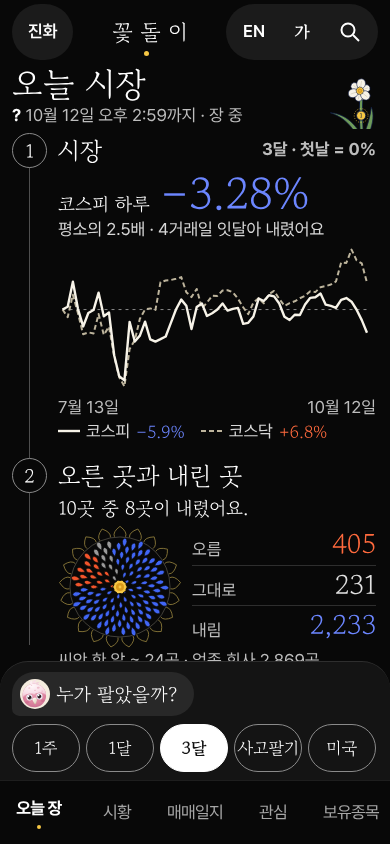
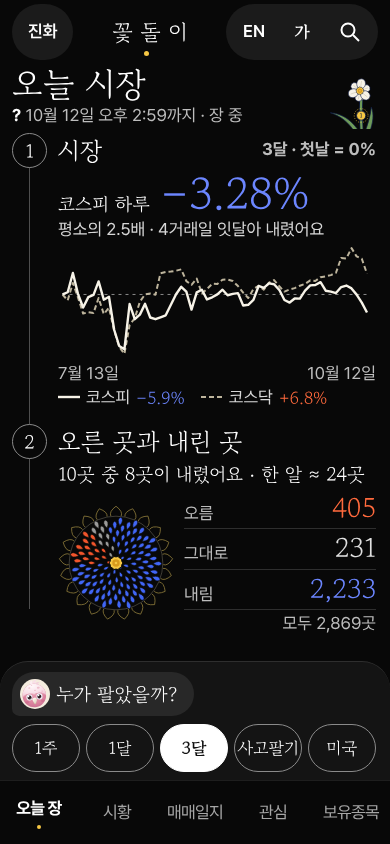
플랫폼 그림 — 그리는 중 사본
Claude-Session: https://claude.ai/code/session_01NCpyR4ELc71hqitZJpUS2Z

diff --git a/docs/design/kakao-2026-10-19/platform/today.html b/docs/design/kakao-2026-10-19/platform/today.html
@@ -181,6 +181,7 @@ button,input{font:inherit;color:inherit;background:none;border:0}
 
 .ttlrow{display:flex;align-items:flex-end;justify-content:space-between;margin:0 0 2px}
 .ttlrow .flower{width:54px;height:54px}
+.c1 .lbl{margin-top:0}
 .ch .t2{font-family:"Gowun Batang",serif;font-size:23px;line-height:1.2}
 .kv{display:flex;align-items:baseline;gap:10px;margin:2px 0 0}
 .kv .v{font-family:"Gowun Batang",serif;font-size:44px;line-height:1}
@@ -189,7 +190,7 @@ button,input{font:inherit;color:inherit;background:none;border:0}
 .lg{display:flex;gap:16px;font-size:17px;color:#D6D6D6;margin-top:-2px}
 .lg span{display:inline-flex;align-items:center;gap:6px}
 .garden2{display:flex;align-items:center;gap:10px;margin-top:2px}
-.garden2 .sun{width:124px;height:124px}
+.garden2 .sun{width:116px;height:116px}
 .nums{flex:1;display:flex;flex-direction:column;gap:2px}
 .nums .r{display:flex;align-items:baseline;justify-content:space-between;border-bottom:1px solid #2E2E2E;padding:2px 0}
 .nums .r:last-child{border-bottom:0}
@@ -226,7 +227,7 @@ button,input{font:inherit;color:inherit;background:none;border:0}
     <h2 class="lbl"><span class="t">시장</span><span class="sub">3달 · 첫날 = 0%</span></h2>
     <div class="kv" data-num><span class="lead">코스피 하루</span><span class="v dn">−3.28%</span></div>
     <p class="cap" style="color:#D6D6D6">평소의 2.5배 · 4거래일 잇달아 내렸어요</p>
-    <svg class="chart" viewBox="0 14 282 142" preserveAspectRatio="none" style="height:150px" role="img" aria-label="3달 선 두 개 · 코스피 −5.9% · 코스닥 +6.8%">
+    <svg class="chart" viewBox="0 14 282 142" preserveAspectRatio="none" style="height:116px" role="img" aria-label="3달 선 두 개 · 코스피 −5.9% · 코스닥 +6.8%">
       <path d="M4 77H274" stroke="#8A8A8A" stroke-width="1" stroke-dasharray="3 4" vector-effect="non-scaling-stroke"/>
       <path d="M4.0 77.0 L8.6 84.2 L13.2 62.9 L17.7 80.5 L22.3 100.4 L26.9 98.6 L31.5 99.7 L36.0 81.3 L40.6 101.0 L45.2 93.2 L49.8 121.0 L54.3 141.2 L58.9 149.7 L63.5 114.4 L68.1 106.1 L72.6 85.8 L77.2 76.9 L81.8 75.9 L86.4 77.3 L90.9 51.1 L95.5 49.5 L100.1 49.0 L104.7 47.9 L109.3 46.3 L113.8 60.6 L118.4 65.2 L123.0 57.5 L127.6 75.8 L132.1 70.4 L136.7 63.9 L141.3 64.1 L145.9 59.0 L150.4 58.7 L155.0 60.6 L159.6 66.7 L164.2 74.8 L168.7 81.3 L173.3 70.4 L177.9 66.3 L182.5 71.1 L187.1 62.4 L191.6 59.4 L196.2 67.0 L200.8 73.5 L205.4 70.9 L209.9 69.2 L214.5 66.3 L219.1 64.0 L223.7 59.7 L228.2 60.5 L232.8 55.8 L237.4 54.8 L242.0 53.3 L246.5 50.4 L251.1 32.4 L255.7 32.9 L260.3 20.3 L264.8 30.4 L269.4 33.3 L274.0 51.6" fill="none" stroke="#BDB49C" stroke-width="2" stroke-dasharray="5 3" stroke-linejoin="round" vector-effect="non-scaling-stroke"/>
       <path d="M4.0 77.0 L8.6 74.3 L13.2 50.7 L17.7 76.3 L22.3 93.0 L26.9 80.3 L31.5 77.5 L36.0 61.0 L40.6 83.4 L45.2 79.8 L49.8 120.2 L54.3 140.1 L58.9 144.0 L63.5 88.7 L68.1 107.3 L72.6 101.7 L77.2 88.5 L81.8 105.2 L86.4 107.3 L90.9 105.0 L95.5 102.5 L100.1 89.6 L104.7 76.7 L109.3 67.6 L113.8 73.5 L118.4 95.5 L123.0 74.5 L127.6 71.2 L132.1 83.1 L136.7 80.5 L141.3 76.9 L145.9 71.2 L150.4 78.0 L155.0 76.3 L159.6 75.4 L164.2 90.5 L168.7 89.6 L173.3 83.6 L177.9 66.6 L182.5 68.9 L187.1 63.5 L191.6 64.5 L196.2 71.3 L200.8 83.8 L205.4 86.9 L209.9 81.9 L214.5 82.1 L219.1 72.2 L223.7 65.9 L228.2 65.4 L232.8 61.9 L237.4 72.4 L242.0 73.5 L246.5 75.3 L251.1 67.9 L255.7 66.1 L260.3 69.6 L264.8 77.2 L269.4 87.0 L274.0 99.0" fill="none" stroke="#F7F3E8" stroke-width="2.4" stroke-linejoin="round" vector-effect="non-scaling-stroke"/>
@@ -238,16 +239,16 @@ button,input{font:inherit;color:inherit;background:none;border:0}
   <li class="ch c2">
     <span class="no mid" aria-hidden="true">2</span>
     <h2 class="lbl"><span class="t">오른 곳과 내린 곳</span></h2>
-    <p class="lead">10곳 중 8곳이 내렸어요.</p>
+    <p class="lead">10곳 중 8곳이 내렸어요 · 한 알 ≈ 24곳</p>
     <div class="garden2">
       <svg class="sun" viewBox="0 0 140 140" role="img" aria-label="씨앗 120알 · 한 알이 회사 약 24곳 · 다홍 17알 오름 · 회색 10알 그대로 · 남빛 93알 내림"><path d="M63.74 13.34Q61.40 7.84 70.00 1.50Q78.60 7.84 76.26 13.34M80.72 14.02Q80.10 8.07 90.19 4.54Q96.54 13.14 92.68 17.71M96.75 19.66Q97.91 13.80 108.59 13.40Q112.12 23.49 107.09 26.71M110.39 29.78Q113.23 24.52 123.56 27.29Q123.96 37.97 118.20 39.57M120.45 43.48Q124.72 39.28 133.76 44.97Q131.00 55.30 125.03 55.13M126.03 59.53Q131.34 56.78 138.31 64.88Q132.63 73.93 126.96 72.01M126.63 76.51Q132.51 75.45 136.78 85.24Q128.69 92.22 123.84 88.71M122.19 92.91Q128.13 93.63 129.32 104.25Q119.53 108.53 115.94 103.75M113.12 107.28Q118.58 109.71 116.59 120.21Q105.97 121.41 103.95 115.79M100.22 118.33Q104.72 122.27 99.72 131.72Q89.22 129.73 88.94 123.76M84.63 125.09Q87.77 130.18 80.21 137.73Q70.76 132.75 72.26 126.96M67.74 126.96Q69.24 132.75 59.79 137.73Q52.23 130.18 55.37 125.09M51.06 123.76Q50.78 129.73 40.28 131.72Q35.28 122.27 39.78 118.33M36.05 115.79Q34.03 121.41 23.41 120.21Q21.42 109.71 26.88 107.28M24.06 103.75Q20.47 108.53 10.68 104.25Q11.87 93.63 17.81 92.91M16.16 88.71Q11.31 92.22 3.22 85.24Q7.49 75.45 13.37 76.51M13.04 72.01Q7.37 73.93 1.69 64.88Q8.66 56.78 13.97 59.53M14.97 55.13Q9.00 55.30 6.24 44.97Q15.28 39.28 19.55 43.48M21.80 39.57Q16.04 37.97 16.44 27.29Q26.77 24.52 29.61 29.78M32.91 26.71Q27.88 23.49 31.41 13.40Q42.09 13.80 43.25 19.66M47.32 17.71Q43.46 13.14 49.81 4.54Q59.90 8.07 59.28 14.02" fill="none" stroke="#8C7A3A" stroke-width="1" stroke-linejoin="round"/><circle cx="70" cy="70" r="56.50" fill="none" stroke="#4A473F" stroke-width="1"/><path d="M45.18 69.88Q38.90 65.65 36.78 69.84Q38.86 74.05 45.18 69.88ZM29.11 67.71Q21.97 62.35 19.22 67.15Q21.41 72.24 29.11 67.71ZM65.54 69.61Q60.96 65.93 59.05 69.04Q60.39 72.43 65.54 69.61ZM38.43 65.60Q32.33 60.17 29.46 64.34Q31.08 69.14 38.43 65.60ZM25.10 61.38Q18.45 54.83 14.93 59.42Q16.49 65.00 25.10 61.38ZM51.11 65.75Q46.21 60.60 43.42 64.02Q44.48 68.30 51.11 65.75ZM33.67 59.85Q28.02 53.29 24.41 57.27Q25.44 62.54 33.67 59.85ZM44.03 60.37Q39.44 54.05 35.90 57.36Q36.43 62.18 44.03 60.37ZM30.66 53.08Q25.70 45.46 21.39 49.10Q21.71 54.73 30.66 53.08ZM59.12 64.91Q55.75 59.35 52.59 61.85Q52.70 65.88 59.12 64.91ZM39.80 53.94Q35.83 46.57 31.60 49.58Q31.47 54.77 39.80 53.94ZM50.77 57.64Q47.81 50.85 43.86 53.20Q43.37 57.76 50.77 57.64ZM37.72 46.83Q34.60 38.56 29.76 41.12Q28.89 46.52 37.72 46.83ZM46.90 50.34Q44.70 42.61 40.11 44.56Q38.92 49.40 46.90 50.34ZM37.54 39.38Q35.46 30.37 30.08 32.34Q28.42 37.83 37.54 39.38ZM58.11 58.05Q56.77 51.28 52.71 52.62Q51.34 56.68 58.11 58.05ZM45.67 42.92Q44.44 34.45 39.33 35.86Q37.39 40.79 45.67 42.92Z" fill="#F2552C" stroke="#080808" stroke-width=".7"/><path d="M54.32 49.34Q53.85 41.69 49.18 42.57Q47.08 46.83 54.32 49.34ZM46.54 35.57Q46.45 26.57 40.92 27.32Q38.20 32.19 46.54 35.57ZM65.74 63.30Q65.87 57.15 62.07 57.54Q60.11 60.81 65.74 63.30ZM53.85 41.49Q54.44 33.27 49.34 33.53Q46.49 37.78 53.85 41.49ZM49.24 28.55Q50.39 19.23 44.57 19.23Q41.08 23.89 49.24 28.55ZM61.31 51.18Q62.42 44.04 57.94 43.90Q55.14 47.40 61.31 51.18ZM55.66 34.28Q57.45 25.74 52.06 25.30Q48.47 29.35 55.66 34.28ZM61.54 42.56Q63.79 34.99 58.96 34.19Q55.42 37.57 61.54 42.56ZM59.32 27.82Q62.37 19.19 56.83 17.98Q52.53 21.69 59.32 27.82ZM67.00 56.33Q69.41 50.13 65.41 49.12Q62.20 51.71 67.00 56.33Z" fill="#9A9A9A" stroke="#080808" stroke-width=".7"/><path d="M64.23 35.43Q67.69 27.74 62.69 26.20Q58.46 29.28 64.23 35.43ZM68.01 46.03Q71.65 39.46 67.33 37.73Q63.35 40.15 68.01 46.03ZM68.72 29.55Q73.42 22.00 68.41 19.69Q63.56 22.31 68.72 29.55ZM70.00 69.39Q73.10 64.73 70.00 63.18Q66.90 64.73 70.00 69.39ZM71.60 38.78Q76.44 32.26 72.06 29.78Q67.45 31.80 71.60 38.78ZM74.62 24.95Q80.54 17.78 75.67 14.69Q70.28 16.73 74.62 24.95ZM72.45 51.77Q77.10 46.49 73.49 44.04Q69.37 45.45 72.45 51.77ZM76.84 33.43Q82.85 27.26 78.59 24.04Q73.46 25.51 76.84 33.43ZM77.14 43.95Q82.99 38.87 79.41 35.66Q74.69 36.59 77.14 43.95ZM83.27 29.77Q90.40 24.18 86.42 20.23Q80.86 21.04 83.27 29.77ZM73.61 60.11Q78.75 56.34 76.04 53.47Q72.11 53.91 73.61 60.11ZM83.14 39.03Q90.09 34.46 86.74 30.54Q81.59 30.86 83.14 39.03ZM90.54 27.73Q98.69 22.95 95.12 18.30Q89.26 18.37 90.54 27.73ZM80.25 50.50Q86.69 46.99 84.03 43.30Q79.49 43.21 80.25 50.50ZM90.01 36.24Q97.93 32.43 94.98 27.85Q89.54 27.46 90.01 36.24ZM87.20 45.79Q94.65 42.94 92.32 38.57Q87.43 37.81 87.20 45.79ZM97.39 35.33Q106.15 32.49 103.73 27.32Q98.14 26.15 97.39 35.33ZM80.16 57.94Q86.70 56.05 85.03 52.17Q80.92 51.18 80.16 57.94ZM94.49 43.79Q102.76 41.84 100.93 36.89Q95.87 35.40 94.49 43.79ZM88.66 53.07Q96.18 51.94 94.91 47.40Q90.51 45.70 88.66 53.07ZM101.88 43.92Q110.79 43.05 109.57 37.63Q104.50 35.36 101.88 43.92ZM74.59 66.48Q80.56 66.09 79.86 62.44Q76.52 60.82 74.59 66.48ZM96.50 51.75Q104.69 51.63 103.99 46.60Q99.54 44.14 96.50 51.75ZM109.11 45.92Q118.46 46.25 117.95 40.47Q113.02 37.41 109.11 45.92ZM87.20 60.14Q94.33 60.63 94.08 56.20Q90.39 53.74 87.20 60.14ZM103.87 52.82Q112.50 53.85 112.47 48.47Q108.14 45.26 103.87 52.82ZM95.97 59.43Q103.66 61.00 104.03 56.15Q100.37 52.94 95.97 59.43ZM110.65 55.82Q119.48 58.10 120.20 52.49Q116.15 48.55 110.65 55.82ZM82.12 66.20Q88.41 68.03 89.06 64.02Q86.23 61.10 82.12 66.20ZM103.40 61.37Q111.32 64.13 112.41 59.04Q108.99 55.12 103.40 61.37ZM92.92 66.06Q99.72 69.08 101.06 64.66Q98.33 60.94 92.92 66.06ZM109.70 65.25Q117.60 69.25 119.45 64.08Q116.43 59.50 109.70 65.25ZM100.62 68.88Q107.49 73.11 109.56 68.56Q107.17 64.17 100.62 68.88ZM114.84 70.66Q122.48 75.91 125.12 70.81Q122.63 65.63 114.84 70.66ZM87.37 70.80Q92.96 74.92 95.06 71.16Q93.32 67.22 87.37 70.80ZM106.50 73.56Q113.14 78.99 115.97 74.49Q114.06 69.52 106.50 73.56ZM95.87 74.71Q101.41 80.05 104.27 76.23Q102.93 71.65 95.87 74.71ZM110.79 79.59Q116.94 86.18 120.52 81.88Q119.23 76.44 110.79 79.59ZM78.56 72.30Q82.67 76.99 85.24 74.10Q84.47 70.31 78.56 72.30ZM101.45 80.20Q106.58 86.69 110.17 83.03Q109.41 77.96 101.45 80.20ZM113.51 86.62Q118.96 94.29 123.26 90.34Q122.69 84.53 113.51 86.62ZM89.53 78.17Q93.55 84.22 96.96 81.28Q96.66 76.79 89.53 78.17ZM104.93 86.76Q109.39 94.29 113.68 90.96Q113.59 85.54 104.93 86.76ZM95.06 84.68Q98.52 91.81 102.64 89.13Q102.97 84.23 95.06 84.68ZM106.55 94.01Q110.14 102.45 115.06 99.60Q115.73 93.95 106.55 94.01ZM81.95 78.40Q84.38 84.66 88.04 82.68Q88.66 78.57 81.95 78.40ZM97.82 91.77Q100.48 99.80 105.21 97.55Q106.26 92.41 97.82 91.77ZM87.94 86.60Q89.70 93.92 94.08 92.27Q95.38 87.79 87.94 86.60ZM98.43 99.14Q100.08 107.90 105.34 106.21Q107.15 100.99 98.43 99.14ZM71.94 72.12Q72.82 77.81 76.25 76.83Q77.53 73.49 71.94 72.12ZM90.11 94.34Q90.94 102.44 95.86 101.30Q97.91 96.68 90.11 94.34ZM97.15 106.51Q97.63 115.82 103.32 114.81Q105.93 109.65 97.15 106.51ZM80.78 85.50Q80.92 92.57 85.26 91.94Q87.36 88.09 80.78 85.50ZM89.80 101.80Q89.53 110.44 94.86 109.94Q97.66 105.37 89.80 101.80ZM82.49 94.34Q81.60 102.07 86.43 102.02Q89.29 98.13 82.49 94.34ZM87.49 108.84Q86.00 117.79 91.62 118.02Q95.18 113.66 87.49 108.84ZM74.31 80.44Q73.05 86.75 77.03 87.04Q79.65 84.03 74.31 80.44ZM81.33 101.98Q79.28 110.07 84.42 110.70Q88.00 106.98 81.33 101.98ZM83.47 115.25Q80.68 124.29 86.46 125.31Q90.75 121.30 83.47 115.25ZM75.72 91.70Q73.33 98.68 77.81 99.61Q81.24 96.59 75.72 91.70ZM78.10 108.65Q74.82 116.83 80.11 118.22Q84.39 114.82 78.10 108.65ZM73.71 99.78Q70.13 106.95 74.81 108.60Q78.94 105.85 73.71 99.78ZM73.23 114.29Q68.69 122.32 73.98 124.50Q78.90 121.57 73.23 114.29ZM70.67 86.31Q67.11 92.16 70.99 93.91Q74.71 91.85 70.67 86.31ZM69.65 106.14Q64.85 113.19 69.56 115.60Q74.31 113.28 69.65 106.14ZM67.64 95.46Q62.84 101.39 66.86 103.89Q71.27 102.17 67.64 95.46ZM64.08 111.00Q58.08 117.68 62.65 120.86Q67.93 119.11 64.08 111.00ZM68.80 76.81Q64.60 81.20 67.62 83.45Q71.23 82.38 68.80 76.81ZM62.72 101.65Q56.74 107.29 60.67 110.53Q65.63 109.33 62.72 101.65ZM57.37 114.39Q50.23 120.47 54.52 124.39Q60.24 123.31 57.37 114.39ZM63.84 89.32Q58.22 93.81 61.41 96.92Q65.82 96.23 63.84 89.32ZM56.53 105.79Q49.46 110.86 53.13 114.82Q58.50 114.26 56.53 105.79ZM57.85 95.64Q51.10 99.69 54.11 103.53Q58.99 103.43 57.85 95.64ZM49.49 108.12Q41.43 112.41 44.69 117.04Q50.35 117.21 49.49 108.12ZM63.30 81.56Q57.37 84.48 59.63 87.90Q63.71 88.15 63.30 81.56ZM51.05 99.16Q43.33 102.48 45.97 106.98Q51.15 107.57 51.05 99.16ZM55.51 88.71Q48.43 91.08 50.44 95.26Q54.98 96.16 55.51 88.71ZM43.78 100.51Q35.23 102.90 37.36 107.97Q42.70 109.31 43.78 100.51ZM47.95 91.73Q40.01 93.26 41.56 98.03Q46.31 99.65 47.95 91.73ZM36.33 99.95Q27.13 101.24 28.63 106.80Q33.98 108.93 36.33 99.95ZM56.26 81.47Q49.31 82.21 50.31 86.43Q54.28 88.17 56.26 81.47ZM40.47 92.19Q31.89 92.67 32.84 97.92Q37.61 100.30 40.47 92.19ZM47.44 84.20Q39.72 83.99 40.19 88.76Q44.28 91.25 47.44 84.20ZM33.24 90.59Q24.23 89.89 24.50 95.49Q29.13 98.64 33.24 90.59ZM61.37 74.48Q55.10 73.80 55.16 77.71Q58.32 80.00 61.37 74.48ZM39.66 83.84Q31.47 82.52 31.29 87.66Q35.29 90.89 39.66 83.84ZM26.50 87.22Q17.28 85.24 16.77 91.07Q21.13 94.97 26.50 87.22ZM49.67 77.31Q42.59 75.56 42.05 80.05Q45.33 83.18 49.67 77.31ZM32.68 81.31Q24.29 78.77 23.37 84.13Q27.11 88.08 32.68 81.31ZM41.29 76.17Q33.89 73.24 32.66 78.02Q35.74 81.87 41.29 76.17ZM26.60 77.02Q18.24 73.21 16.54 78.65Q19.87 83.28 26.60 77.02ZM54.93 71.95Q48.87 68.96 47.49 72.92Q49.83 76.39 54.93 71.95ZM34.51 72.77Q27.11 68.62 25.13 73.50Q27.84 78.00 34.51 72.77Z" fill="#4166F5" stroke="#080808" stroke-width=".7"/><g transform="translate(70 70) scale(.9)"><path d="M9.20 0.00 L7.70 2.50 L7.44 5.41 L4.76 6.55 L2.84 8.75 L0.00 8.10 L-2.84 8.75 L-4.76 6.55 L-7.44 5.41 L-7.70 2.50 L-9.20 0.00 L-7.70 -2.50 L-7.44 -5.41 L-4.76 -6.55 L-2.84 -8.75 L-0.00 -8.10 L2.84 -8.75 L4.76 -6.55 L7.44 -5.41 L7.70 -2.50Z" fill="#F6C744" stroke="#080808" stroke-width="1.2" stroke-linejoin="round"/><circle r="5" fill="#D99A1C"/><circle r="1.8" fill="#F6C744"/></g></svg>
       <div class="nums" data-num>
         <div class="r" data-fact><span class="lb">오름</span><span class="v up">405</span></div>
         <div class="r" data-fact><span class="lb">그대로</span><span class="v flat">231</span></div>
         <div class="r" data-fact><span class="lb">내림</span><span class="v dn">2,233</span></div>
+        <p class="cap" style="text-align:right">모두 2,869곳</p>
       </div>
     </div>
-    <p class="cap">씨앗 한 알 ≈ 24곳 · 업종 회사 2,869곳</p>
   </li>
 </ol>
   <div class="dock" aria-label="누르는 곳">

diff --git a/docs/design/kakao-2026-10-19/platform/jinhwa.html b/docs/design/kakao-2026-10-19/platform/jinhwa.html
@@ -37,30 +37,37 @@ button{font:inherit;color:inherit;background:none;border:0}
 .tabs a[aria-current]{color:#FFFFFF;font-weight:700;flex-direction:column;gap:3px}
 .tabs a[aria-current]::after{content:"";width:4px;height:4px;border-radius:50%;background:#F6C744}
 
-.ess{font-size:17px;line-height:1.45;color:#D6D6D6;margin-top:4px;word-break:keep-all}
-/* 자라는 수선화 — 줄기 한 가닥 · 마디마다 번호 · 들어간 마디만 금빛 */
-.grow{display:flex;gap:10px;margin-top:10px}
-.stalk{flex:0 0 64px;width:64px;height:auto;align-self:stretch}
-.steps{flex:1 1 auto;min-width:0;display:flex;flex-direction:column}
-.in{padding-bottom:12px;border-bottom:1px solid #2E2E2E}
-.in .k{display:flex;align-items:baseline;gap:8px;flex-wrap:wrap}
-.in .k b{font-family:"Gowun Batang",serif;font-weight:400;font-size:25px;line-height:1.2}
-.in .k b .n{color:#F6C744;font-weight:700}
-.in .k span{font-size:17px;color:#BDBDBD}
-.in h2{font-size:21px;line-height:1.35;font-weight:700;margin-top:4px;word-break:keep-all}
-.guess{margin-top:8px;font-size:17px;line-height:1.45;color:#D6D6D6;word-break:keep-all}
-.guess em{font-style:normal;font-family:"Gowun Batang",serif;font-size:21px;color:#FFFFFF}
-.when{margin-top:6px;font-size:17px;color:#BDBDBD}
+.hero{display:flex;gap:6px;align-items:stretch}
+.hero .tx{flex:1 1 auto;min-width:0;display:flex;flex-direction:column}
+.hero h1{font-size:40px;line-height:1.05;font-weight:400;padding-top:2px}
+.ess{font-family:"Gowun Batang",serif;font-size:19px;line-height:1.5;color:#FFFFFF;margin-top:6px;word-break:keep-all}
+.ess b{font-weight:400;color:#FFFFFF}
+.legend{margin-top:auto;display:flex;flex-direction:column;gap:2px;font-size:17px;color:#D6D6D6}
+.legend span{display:flex;align-items:center;gap:8px}
+.plant{flex:0 0 86px;width:86px;height:208px}
+/* 마디 줄 — 세로 실 한 가닥 · 그림의 마디와 같은 꼴 */
+.nodes{list-style:none;position:relative;margin-top:4px}
+.nodes::before{content:"";position:absolute;left:17px;top:20px;bottom:24px;width:1px;background:#4E4E4E}
+.nd{position:relative;padding-left:46px}
+.dot{position:absolute;left:0;top:2px;width:35px;height:35px;border-radius:50%;display:flex;align-items:center;justify-content:center;font-family:"Gowun Batang",serif;font-size:19px;font-weight:700;line-height:1}
+.dot.on{background:#F6C744;color:#111111}
+.dot.wait{background:#080808;border:1.5px dashed #8A8A8A;top:12px}
+.k{display:flex;align-items:baseline;gap:8px;flex-wrap:wrap;min-height:38px}
+.k b{font-family:"Gowun Batang",serif;font-weight:400;font-size:25px;line-height:1.2}
+.k b .n{color:#F6C744;font-weight:700}
+.k span{font-size:17px;color:#BDBDBD}
+.nd h2{font-size:20px;line-height:1.35;font-weight:700;word-break:keep-all}
+.guess{margin-top:6px;font-size:17px;line-height:1.45;color:#D6D6D6;word-break:keep-all}
+.guess em{font-style:normal;font-family:"Gowun Batang",serif;font-size:21px;color:#FFFFFF;margin-right:4px}
+.when{margin-top:2px;font-size:17px;color:#BDBDBD}
 .when .n{color:#FFFFFF}
-.say{margin-top:10px}
-.wt{margin-top:12px}
-.wt h3{display:flex;align-items:baseline;justify-content:space-between;font-size:19px;font-weight:700}
-.wt h3 span{font-size:17px;font-weight:400;color:#BDBDBD}
-.alt{display:flex;align-items:center;gap:8px;min-height:60px;padding:6px 0;border-bottom:1px solid #2E2E2E}
+.say{margin-top:8px}
+.wh{margin:12px 0 0 46px;display:flex;align-items:baseline;justify-content:space-between;font-size:19px;font-weight:700;padding-top:10px;border-top:1px solid #2E2E2E}
+.wh span{font-size:17px;font-weight:400;color:#BDBDBD}
+.alt{display:flex;align-items:center;gap:8px;min-height:54px;padding:4px 0;border-bottom:1px solid #2E2E2E}
 .alt p{flex:1 1 auto;min-width:0;font-size:17px;line-height:1.4;word-break:keep-all}
-.alt p small{display:block;color:#BDBDBD;font-size:17px}
 .alt::after{content:"›";font-size:22px;color:#BDBDBD}
-.foot{margin-top:8px;font-size:17px;color:#BDBDBD}
+.foot{margin:8px 0 0 46px;font-size:17px;color:#BDBDBD;line-height:1.45}
 .foot .n{color:#FFFFFF}
 </style>
 </head>
@@ -75,38 +82,40 @@ button{font:inherit;color:inherit;background:none;border:0}
   </span>
 </header>
 <main id="view">
-<div class="ph"><h1 class="serif">진화</h1></div>
-<p class="ess">꽃돌이의 본질: 주식을 사기 전에 한 번 멈추게 하는 곳이다.</p>
-
-<div class="grow">
-  <svg class="stalk" viewBox="0 0 64 560" preserveAspectRatio="xMidYMin meet" role="img" aria-label="자라는 수선화 · 들어간 마디 1 · 확인을 기다리는 마디 셋">
-<defs><g id="g3-bloom"><g fill="#F7F3E8" stroke="#0F1B45" stroke-width="1.3" stroke-linejoin="round"><path d="M0 -4 C 8.6 -5.6 11.6 -16 5.6 -23 Q 0 -26.8 -5.6 -23 C -11.6 -16 -8.6 -5.6 0 -4 Z" transform="rotate(60)"/><path d="M0 -4 C 8.6 -5.6 11.6 -16 5.6 -23 Q 0 -26.8 -5.6 -23 C -11.6 -16 -8.6 -5.6 0 -4 Z" transform="rotate(180)"/><path d="M0 -4 C 8.6 -5.6 11.6 -16 5.6 -23 Q 0 -26.8 -5.6 -23 C -11.6 -16 -8.6 -5.6 0 -4 Z" transform="rotate(300)"/><path d="M0 -4 C 10 -6 13.5 -18 6.5 -26 Q 0 -30.5 -6.5 -26 C -13.5 -18 -10 -6 0 -4 Z" transform="rotate(0)"/><path d="M0 -4 C 10 -6 13.5 -18 6.5 -26 Q 0 -30.5 -6.5 -26 C -13.5 -18 -10 -6 0 -4 Z" transform="rotate(120)"/><path d="M0 -4 C 10 -6 13.5 -18 6.5 -26 Q 0 -30.5 -6.5 -26 C -13.5 -18 -10 -6 0 -4 Z" transform="rotate(240)"/></g><g stroke="#BDB49C" stroke-width=".9" stroke-linecap="round"><path d="M0 -9 L0 -22" transform="rotate(0)"/><path d="M0 -9 L0 -19" transform="rotate(60)"/><path d="M0 -9 L0 -22" transform="rotate(120)"/><path d="M0 -9 L0 -19" transform="rotate(180)"/><path d="M0 -9 L0 -22" transform="rotate(240)"/><path d="M0 -9 L0 -19" transform="rotate(300)"/></g><path d="M9.20 0.00 L7.70 2.50 L7.44 5.41 L4.76 6.55 L2.84 8.75 L0.00 8.10 L-2.84 8.75 L-4.76 6.55 L-7.44 5.41 L-7.70 2.50 L-9.20 0.00 L-7.70 -2.50 L-7.44 -5.41 L-4.76 -6.55 L-2.84 -8.75 L-0.00 -8.10 L2.84 -8.75 L4.76 -6.55 L7.44 -5.41 L7.70 -2.50Z" fill="#F6C744" stroke="#0F1B45" stroke-width="1.2" stroke-linejoin="round"/><circle r="5.2" fill="#D99A1C"/><circle r="1.8" fill="#F6C744"/></g></defs>
-<path d="M32 556 C 30 470 34 380 32 300 C 30 230 33 150 32 70" fill="none" stroke="#0F1B45" stroke-width="7.6" stroke-linecap="round"/>
-<path d="M32 556 C 30 470 34 380 32 300 C 30 230 33 150 32 70" fill="none" stroke="#6E9B5A" stroke-width="4.6" stroke-linecap="round"/>
-<path d="M31 556 C 22 520 12 500 2 492 C 18 494 30 512 36 556 Z" fill="#6E9B5A" stroke="#0F1B45" stroke-width="1.4" stroke-linejoin="round"/>
-<path d="M33 556 C 40 520 48 500 60 486 C 50 506 42 530 38 556 Z" fill="#6E9B5A" stroke="#0F1B45" stroke-width="1.4" stroke-linejoin="round"/>
-<use href="#g3-bloom" transform="translate(32 40) scale(1)"/>
-<g transform="translate(32 40)"><circle r="30" fill="none" stroke="#F6C744" stroke-width="1.3" stroke-dasharray="2.4 3"/></g>
-<g transform="translate(32 104)"><circle r="17" fill="#F6C744" stroke="#0F1B45" stroke-width="2"/><text y="6" text-anchor="middle" font-size="18" font-weight="700" fill="#0F1B45" font-family="Gowun Batang,serif">1</text></g>
-<g fill="#080808" stroke="#8A8A8A" stroke-width="1.4" stroke-dasharray="3 3.5"><circle cx="32" cy="372" r="11"/><circle cx="32" cy="432" r="11"/><circle cx="32" cy="492" r="11"/></g>
-</svg>
-  <div class="steps">
-    <section class="in" aria-label="진화 1번째">
-      <p class="k"><b>진화 <span class="n">1</span>번째</b><span>10월 19일 들어감</span></p>
-      <h2>첫 화면을 흰 바탕 한 장으로 다시 지음</h2>
-      <p class="guess"><em>「끝낸 수가 는다」</em><br>열한 질문을 끝낸 수가 공사 전 10거래일보다 늘 것으로 어림해요.</p>
-      <p class="when">채점 전 · <span class="n">10</span>월 <span class="n">31</span>일쯤 매겨요</p>
-      <p class="ask serif say"><img src="../../../../site/media/makbi-icon.svg" alt="꽃돌이">정말 끝낸 수가 늘까?</p>
-    </section>
-    <section class="wt" aria-label="확인을 기다려요">
-      <h3>확인을 기다려요<span>세 사람이 고른 것</span></h3>
-      <a class="alt" href="#/jinhwa/2"><p>결과 화면에도 한 달 뒤 돌아보기 안내를 놓기<small>바뀐 곳 · 매매일지</small></p></a>
-      <a class="alt" href="#/jinhwa/3"><p>「좋아」가 나온 날에 급한 마음의 격언 한 줄 보여 주기</p></a>
-      <a class="alt" href="#/jinhwa/4"><p>팔 약속 쓰는 쪽에서 「틀린 것도 지우지 않아요」 보여 주기</p></a>
-    </section>
-    <p class="foot">확인 단추는 사장님 휴대폰에만 보여요. 고친 고장 <span class="n">0</span></p>
+<div class="hero">
+  <div class="tx">
+    <h1 class="serif">진화</h1>
+    <p class="ess"><b>꽃돌이의 본질</b> — 주식을 사기 전에 한 번 멈추게 하는 곳이다.</p>
+    <p class="legend"><span><svg width="20" height="20" viewBox="0 0 20 20" aria-hidden="true"><circle cx="10" cy="10" r="8" fill="#F6C744"/></svg>들어감 <span class="n" style="color:#FFF">1</span></span><span><svg width="20" height="20" viewBox="0 0 20 20" aria-hidden="true"><circle cx="10" cy="10" r="8" fill="none" stroke="#8A8A8A" stroke-width="1.5" stroke-dasharray="3 3"/></svg>확인을 기다려요 <span class="n" style="color:#FFF">3</span></span></p>
   </div>
+  <svg class="plant" viewBox="0 0 96 232" role="img" aria-label="자라는 수선화 · 들어간 마디 1 · 확인을 기다리는 마디 셋 · 맨 위 꽃은 본질">
+<defs><g id="g3-bloom"><g fill="#F7F3E8" stroke="#0F1B45" stroke-width="1.3" stroke-linejoin="round"><path d="M0 -4 C 8.6 -5.6 11.6 -16 5.6 -23 Q 0 -26.8 -5.6 -23 C -11.6 -16 -8.6 -5.6 0 -4 Z" transform="rotate(60)"/><path d="M0 -4 C 8.6 -5.6 11.6 -16 5.6 -23 Q 0 -26.8 -5.6 -23 C -11.6 -16 -8.6 -5.6 0 -4 Z" transform="rotate(180)"/><path d="M0 -4 C 8.6 -5.6 11.6 -16 5.6 -23 Q 0 -26.8 -5.6 -23 C -11.6 -16 -8.6 -5.6 0 -4 Z" transform="rotate(300)"/><path d="M0 -4 C 10 -6 13.5 -18 6.5 -26 Q 0 -30.5 -6.5 -26 C -13.5 -18 -10 -6 0 -4 Z" transform="rotate(0)"/><path d="M0 -4 C 10 -6 13.5 -18 6.5 -26 Q 0 -30.5 -6.5 -26 C -13.5 -18 -10 -6 0 -4 Z" transform="rotate(120)"/><path d="M0 -4 C 10 -6 13.5 -18 6.5 -26 Q 0 -30.5 -6.5 -26 C -13.5 -18 -10 -6 0 -4 Z" transform="rotate(240)"/></g><g stroke="#BDB49C" stroke-width=".9" stroke-linecap="round"><path d="M0 -9 L0 -22" transform="rotate(0)"/><path d="M0 -9 L0 -19" transform="rotate(60)"/><path d="M0 -9 L0 -22" transform="rotate(120)"/><path d="M0 -9 L0 -19" transform="rotate(180)"/><path d="M0 -9 L0 -22" transform="rotate(240)"/><path d="M0 -9 L0 -19" transform="rotate(300)"/></g><path d="M9.20 0.00 L7.70 2.50 L7.44 5.41 L4.76 6.55 L2.84 8.75 L0.00 8.10 L-2.84 8.75 L-4.76 6.55 L-7.44 5.41 L-7.70 2.50 L-9.20 0.00 L-7.70 -2.50 L-7.44 -5.41 L-4.76 -6.55 L-2.84 -8.75 L-0.00 -8.10 L2.84 -8.75 L4.76 -6.55 L7.44 -5.41 L7.70 -2.50Z" fill="#F6C744" stroke="#0F1B45" stroke-width="1.2" stroke-linejoin="round"/><circle r="5.2" fill="#D99A1C"/><circle r="1.8" fill="#F6C744"/></g></defs>
+<path d="M48 230 C 47 190 49 140 48 100 C 47 80 48 66 48 54" fill="none" stroke="#0F1B45" stroke-width="7.6" stroke-linecap="round"/>
+<path d="M48 230 C 47 190 49 140 48 100 C 47 80 48 66 48 54" fill="none" stroke="#6E9B5A" stroke-width="4.6" stroke-linecap="round"/>
+<path d="M46 230 C 36 206 22 192 6 186 C 26 186 42 202 52 230 Z" fill="#6E9B5A" stroke="#0F1B45" stroke-width="1.4" stroke-linejoin="round"/>
+<path d="M50 230 C 58 204 70 190 90 176 C 76 196 64 214 58 230 Z" fill="#6E9B5A" stroke="#0F1B45" stroke-width="1.4" stroke-linejoin="round"/>
+<path d="M49 62 C 57 56 61 48 61 40 C 54 44 50 52 49 60 Z" fill="#D8CBA8" stroke="#0F1B45" stroke-width="1.1" stroke-linejoin="round"/>
+<use href="#g3-bloom" transform="translate(46 32) rotate(8) scale(1)"/>
+<g fill="#080808" stroke="#8A8A8A" stroke-width="1.5" stroke-dasharray="3 3.4"><circle cx="48" cy="84" r="10"/><circle cx="48" cy="118" r="10"/><circle cx="48" cy="152" r="10"/></g>
+<g transform="translate(48 188)"><circle r="16.5" fill="none" stroke="#F6C744" stroke-width="1.3" stroke-dasharray="2.4 3"/><circle r="12" fill="#F6C744" stroke="#0F1B45" stroke-width="1.8"/><text y="5.4" text-anchor="middle" font-size="16" font-weight="700" fill="#0F1B45" font-family="Gowun Batang,serif">1</text></g>
+</svg>
 </div>
+
+<ol class="nodes" aria-label="진화 마디">
+  <li class="nd">
+    <span class="dot on" aria-hidden="true">1</span>
+    <p class="k"><b>진화 <span class="n">1</span>번째</b><span>10월 19일 들어감</span></p>
+    <h2>첫 화면을 흰 바탕 한 장으로 다시 지음</h2>
+    <p class="guess"><em>「끝낸 수가 는다」</em>열한 질문을 끝낸 수가 공사 전 10거래일보다 늘 것으로 어림해요.</p>
+    <p class="when">채점 전 · <span class="n">10</span>월 <span class="n">31</span>일쯤 매겨요</p>
+    <p class="ask serif say"><img src="../../../../site/media/makbi-icon.svg" alt="꽃돌이">정말 끝낸 수가 늘까?</p>
+  </li>
+  <li class="wh" aria-hidden="true">확인을 기다려요<span>세 사람이 고른 것</span></li>
+  <li class="nd"><span class="dot wait" aria-hidden="true"></span><a class="alt" href="#/jinhwa/2"><p>결과 화면에도 한 달 뒤 돌아보기 안내를 놓기</p></a></li>
+  <li class="nd"><span class="dot wait" aria-hidden="true"></span><a class="alt" href="#/jinhwa/3"><p>「좋아」가 나온 날에 급한 마음의 격언 한 줄 보여 주기</p></a></li>
+  <li class="nd"><span class="dot wait" aria-hidden="true"></span><a class="alt" href="#/jinhwa/4"><p>팔 약속 쓰는 쪽에서 「틀린 것도 지우지 않아요」 보여 주기</p></a></li>
+</ol>
+<p class="foot">확인 단추는 사장님 휴대폰에만 보여요.<br>고친 고장 <span class="n">0</span></p>
 
 </main>
 <nav class="tabs">

diff --git a/docs/design/kakao-2026-10-19/platform/surge.html b/docs/design/kakao-2026-10-19/platform/surge.html
@@ -194,7 +194,7 @@ button,input{font:inherit;color:inherit;background:none;border:0}
 .rl span{position:absolute;top:0;transform:translateX(-50%);text-align:center;white-space:nowrap}
 .warn{margin-top:8px;border-top:1px solid #2E2E2E;padding-top:6px}
 .warn p{display:flex;gap:10px;align-items:baseline;font-size:17px;line-height:1.4;color:#FFFFFF}
-.warn i{font-style:normal;font-weight:700;color:#F6C744;flex:0 0 12px;text-align:center}
+.warn i{font-style:normal;font-weight:700;color:#FFFFFF;flex:0 0 12px;text-align:center}
 .rl b{font-family:"Gowun Batang",serif;font-weight:400}
 </style>
 </head>
